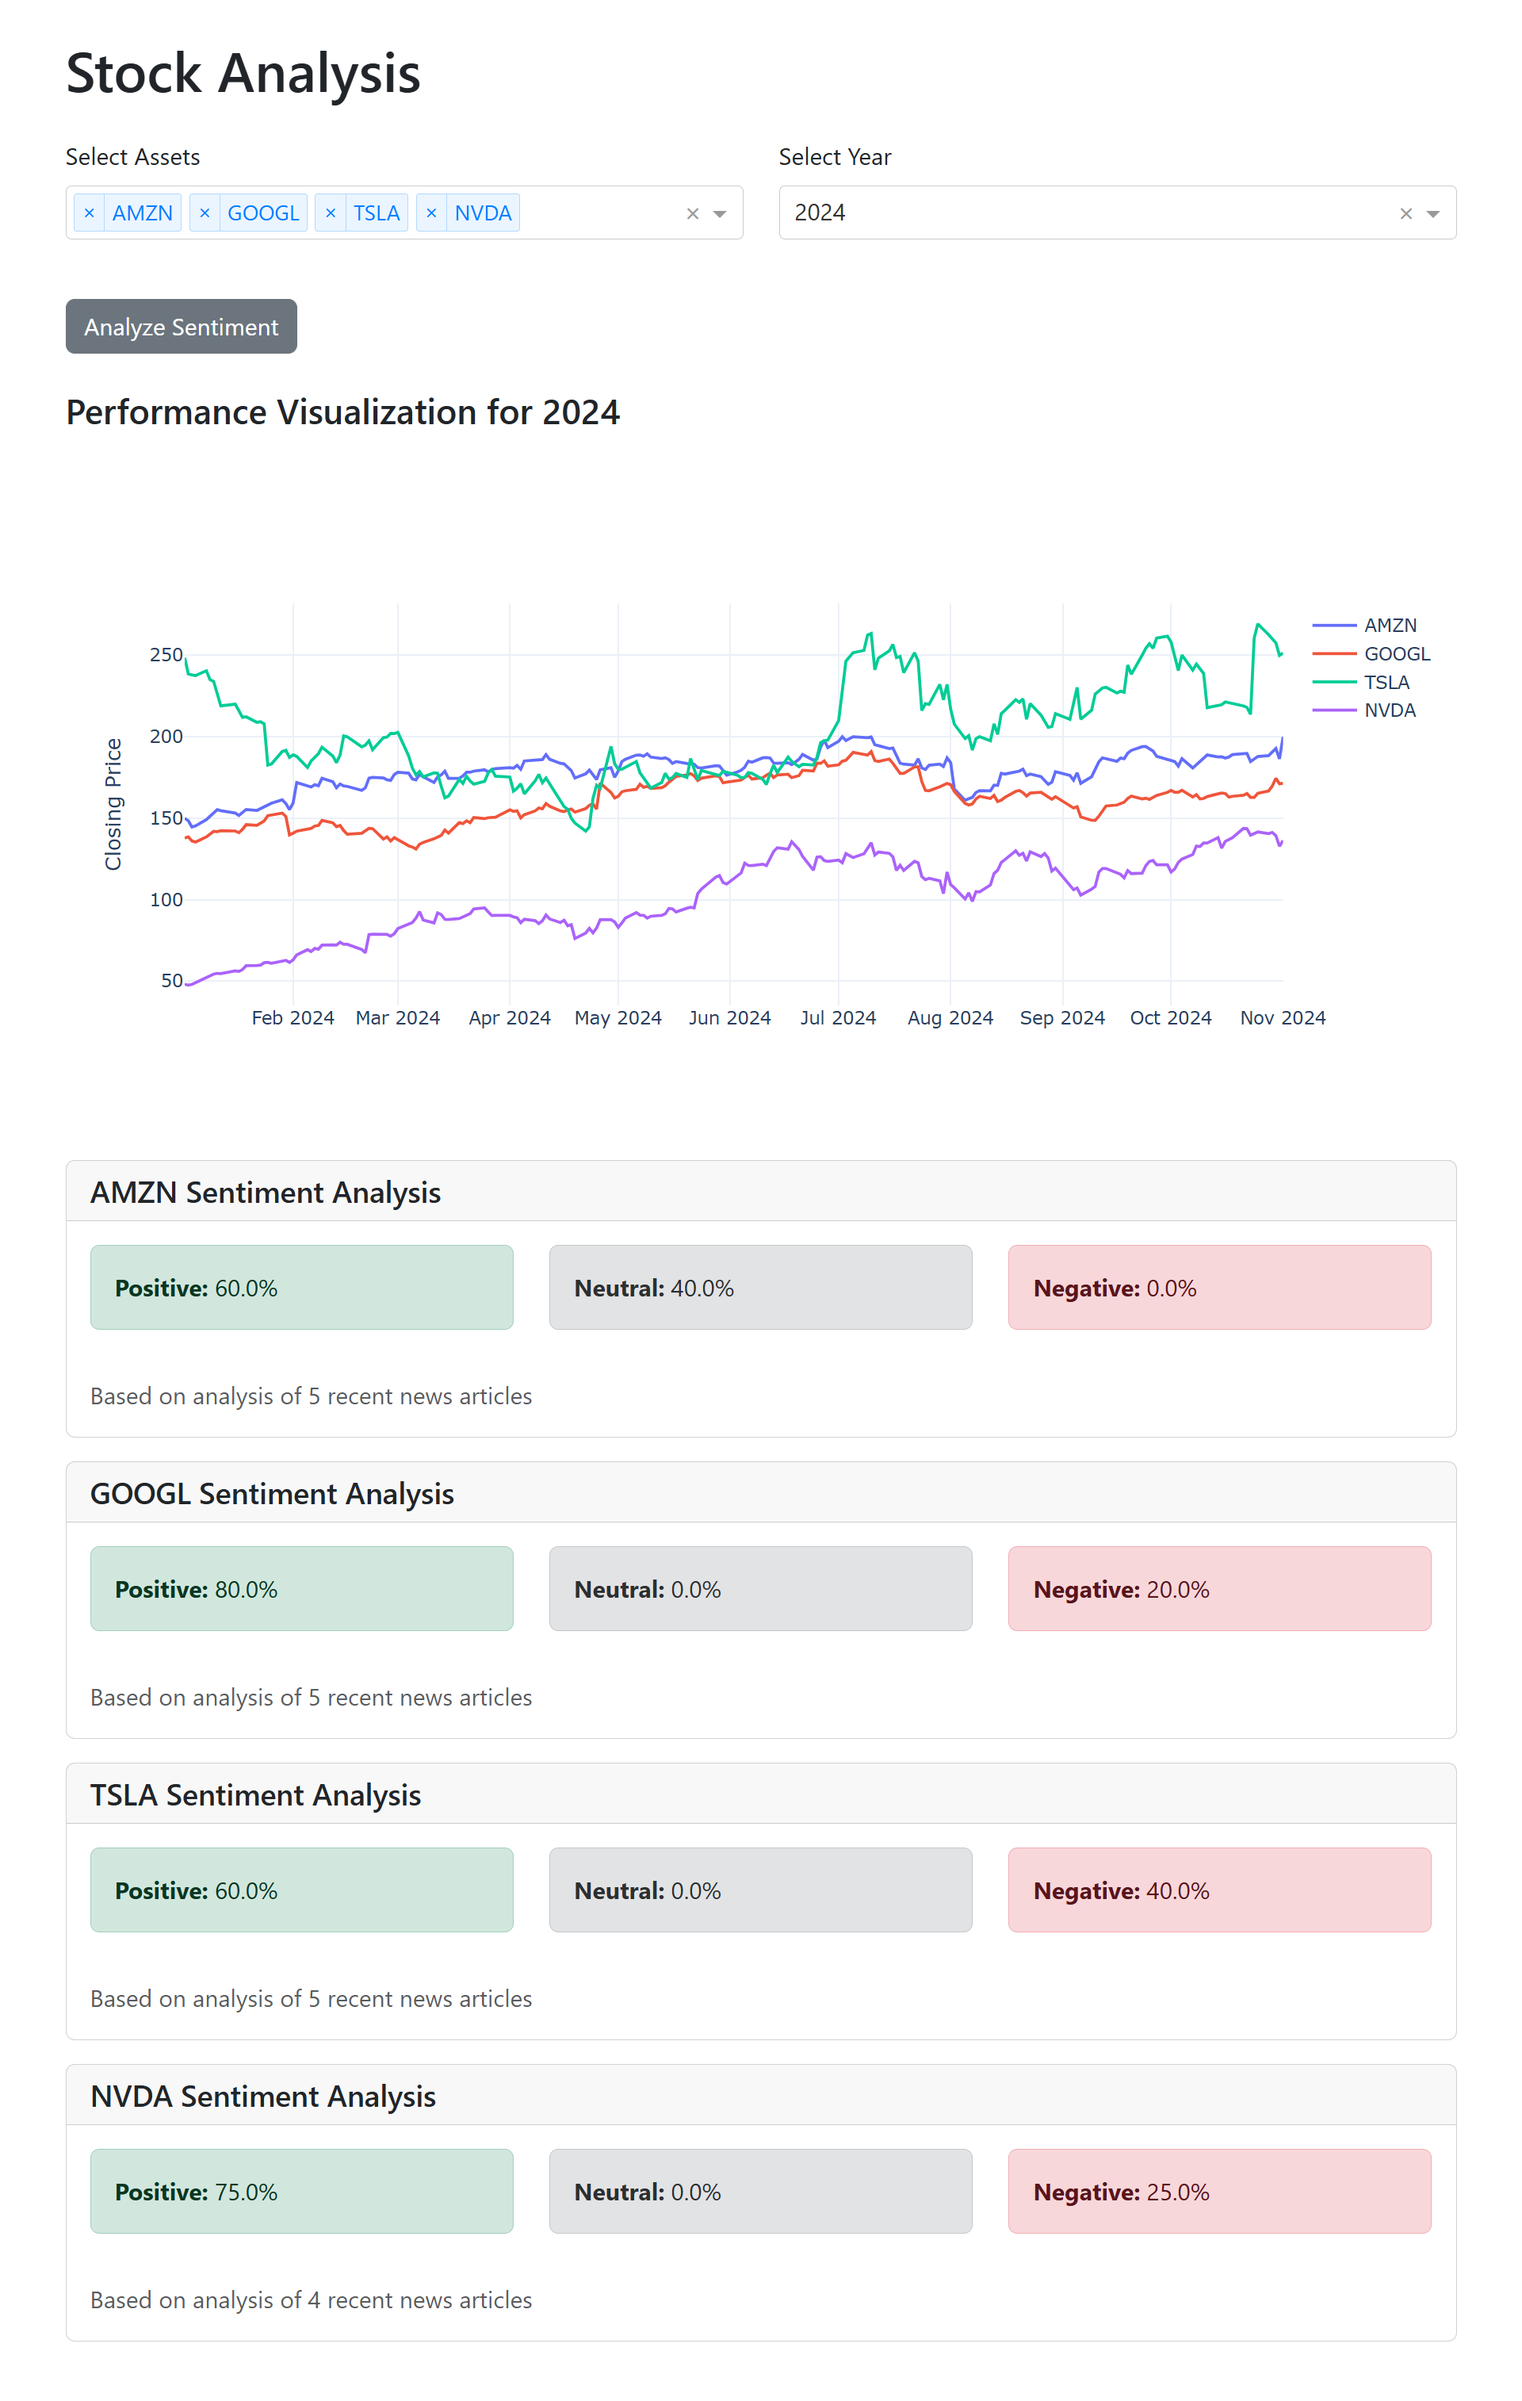
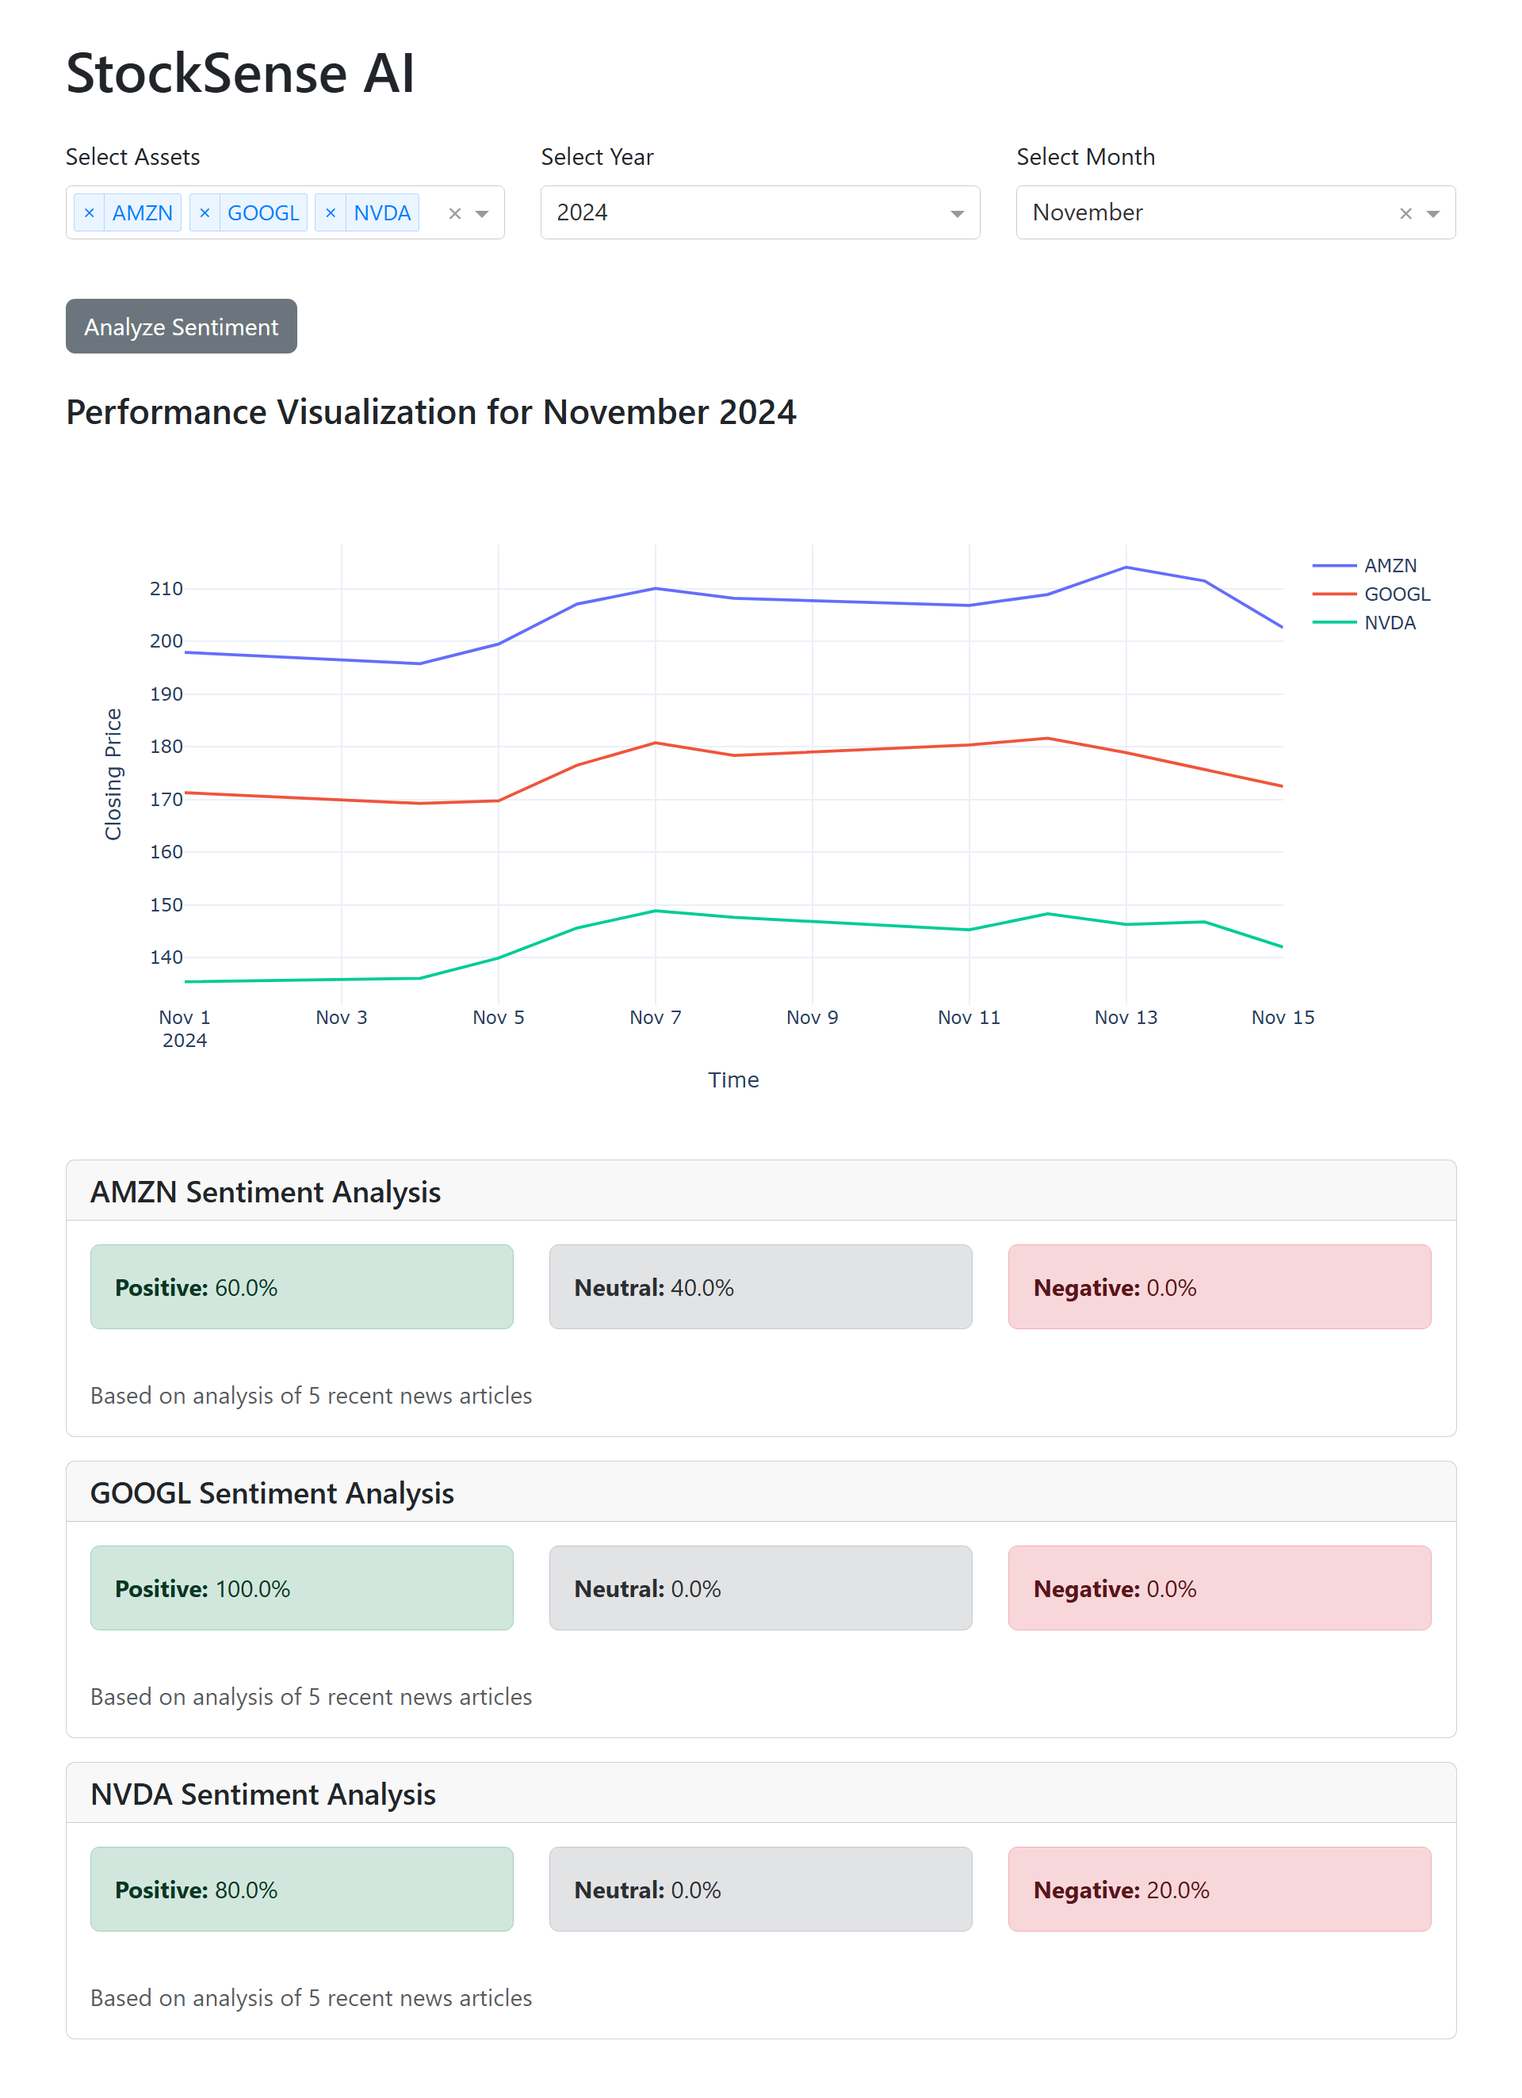
Month Added

diff --git a/layouts.py b/layouts.py
@@ -6,15 +6,18 @@ import datetime
 
 def create_app_layout():
     current_year = datetime.datetime.now().year
-    year_options = [{"label": str(year), "value": year} for year in range(current_year - 5, current_year + 1)]
+    current_month = datetime.datetime.now().month
+    year_options = [{"label": str(year), "value": year} for year in range(current_year-5, current_year+1)]
+    month_options = [{"label": datetime.datetime(current_year, month, 1).strftime("%B"), "value": month} for month in range(1, current_month+1)]
+
     tickers = ["AAPL", "GOOGL", "MSFT", "AMZN", "TSLA", "NFLX", "NVDA"]
     default_tickers = ["AAPL", "AMZN", "GOOGL"]
     
     return html.Div(className="container py-4", children=[
-        html.H1("Stock Analysis", className="mb-4"),
+        html.H1("StockSense AI", className="mb-4"),
         
         html.Div(className="row mb-4", children=[
-            html.Div(className="col-md-6", children=[
+            html.Div(className="col-md-4", children=[
                 html.Label("Select Assets", className="form-label"),
                 dcc.Dropdown(
                     id="asset-dropdown",
@@ -24,12 +27,22 @@ def create_app_layout():
                     className="mb-3"
                 )
             ]),
-            html.Div(className="col-md-6", children=[
+            html.Div(className="col-md-4", children=[
                 html.Label("Select Year", className="form-label"),
                 dcc.Dropdown(
                     id="year-dropdown",
                     options=year_options,
                     value=current_year,
+                    className="mb-3",
+                    clearable=False
+                )
+            ]),
+            html.Div(className="col-md-4", children=[
+                html.Label("Select Month", className="form-label"),
+                dcc.Dropdown(
+                    id="month-dropdown",
+                    options=month_options,
+                    value=current_month,
                     className="mb-3"
                 )
             ])
@@ -85,9 +98,9 @@ def create_sentiment_card(asset, sentiment_counts, article_count):
         ])
     ])
 
-def create_performance_plot_layout(fig, selected_year):
+def create_performance_plot_layout(fig, selected_year, selected_month):
     """Generate layout for displaying performance plot."""
     return html.Div([
-        html.H4(f"Performance Visualization for {selected_year}", className="mb-3"),
+        html.H4(f"Performance Visualization for {selected_month}{selected_year}", className="mb-3"),
         dcc.Graph(figure=fig)
     ])

diff --git a/callbacks.py b/callbacks.py
@@ -1,6 +1,7 @@
 import dash
 from dash import dcc, Input, Output, State, html
 import pandas as pd
+import calendar
 from layouts import create_sentiment_card, create_performance_plot_layout
 from data_manager import fetch_stock_data
 from sentiment_analysis import fetch_news, analyze_sentiment
@@ -10,25 +11,34 @@ def register_callbacks(app):
     
     @app.callback(
         Output("performance-plot", "children"),
-        [Input("asset-dropdown", "value"), Input("year-dropdown", "value")]
+        [Input("asset-dropdown", "value"), Input("year-dropdown", "value"), Input("month-dropdown", "value")]
     )
-    def update_performance_plot(selected_assets, selected_year):
+    def update_performance_plot(selected_assets, selected_year, selected_month):
         if not selected_assets:
             return html.Div("Please select at least one asset", className="alert alert-warning")
 
-        # Calculate start and end dates based on the selected year
-        start_date = f"{selected_year}-01-01"
-        end_date = f"{selected_year}-12-31"
+        # Calculate start and end dates
+        if(selected_month):
+            last_day = calendar.monthrange(selected_year, selected_month)[1]
+            start_date = f"{selected_year}-{selected_month:02d}-01"
+            end_date = f"{selected_year}-{selected_month:02d}-{last_day}"
+        else:
+            start_date = f"{selected_year}-01-01"
+            end_date = f"{selected_year}-12-31"
 
         # Fetch stock data for selected assets within the selected year
         data = fetch_stock_data(selected_assets, start_date, end_date)
 
         # Generate the plot
         fig = px.line(data, x=data.index, y=selected_assets, 
-                      labels={"value": "Closing Price", "Date": "Time", "variable": "Asset"},
+                      labels={"value": "Closing Price", "Date": "Time", "variable": ""},
                       template="plotly_white")
-
-        return create_performance_plot_layout(fig, selected_year)
+        if(selected_month):
+            month_str = calendar.month_name[selected_month] + " "
+        else:
+            month_str = ""
+        return create_performance_plot_layout(fig, selected_year, month_str)
+    
     
 
     @app.callback(
@@ -67,4 +77,5 @@ def register_callbacks(app):
             return html.Div(sentiment_output), "", {"display": "none"}
 
         except Exception as e:
+            print(e)
             return "", str(e), {"display": "block"}

diff --git a/app.py b/app.py
@@ -6,7 +6,7 @@ app = dash.Dash(
     __name__,
     external_stylesheets=['https://cdnjs.cloudflare.com/ajax/libs/bootstrap/5.3.2/css/bootstrap.min.css']
 )
-app.title = "Stock Analysis"
+app.title = "StockSense AI"
 
 # Set up app layout
 app.layout = create_app_layout()
@@ -15,4 +15,4 @@ app.layout = create_app_layout()
 register_callbacks(app)
 
 if __name__ == "__main__":
-    app.run_server(debug=True)
+    app.run_server(debug=False)
